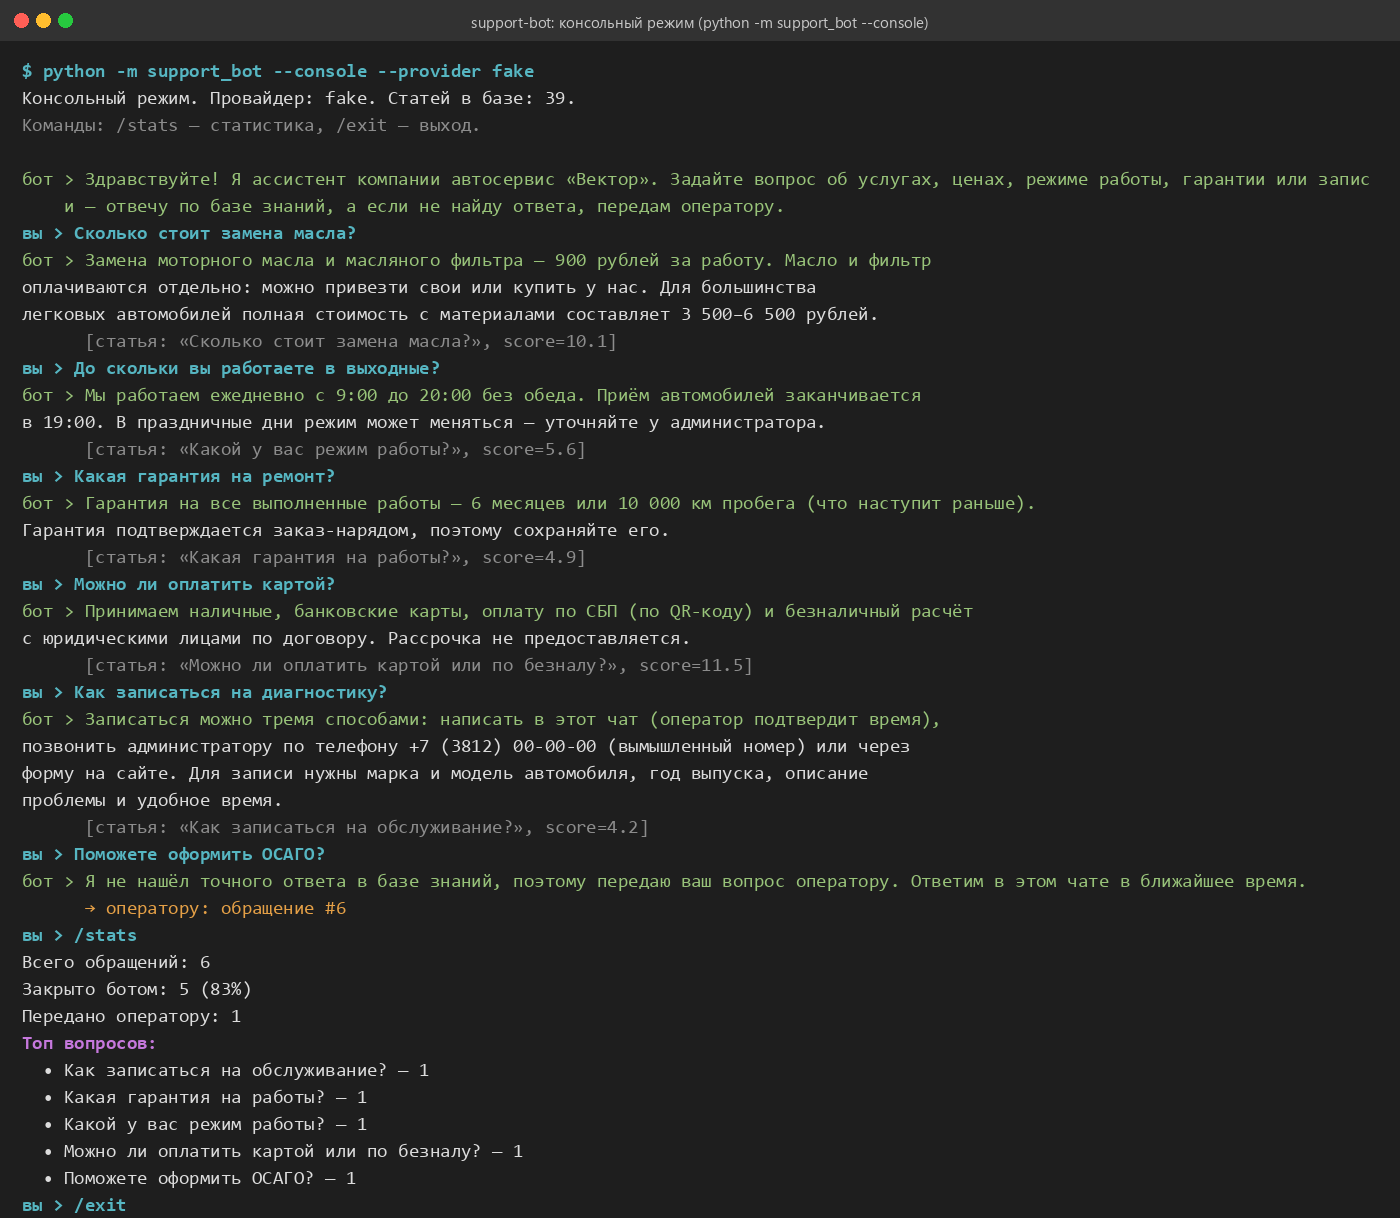
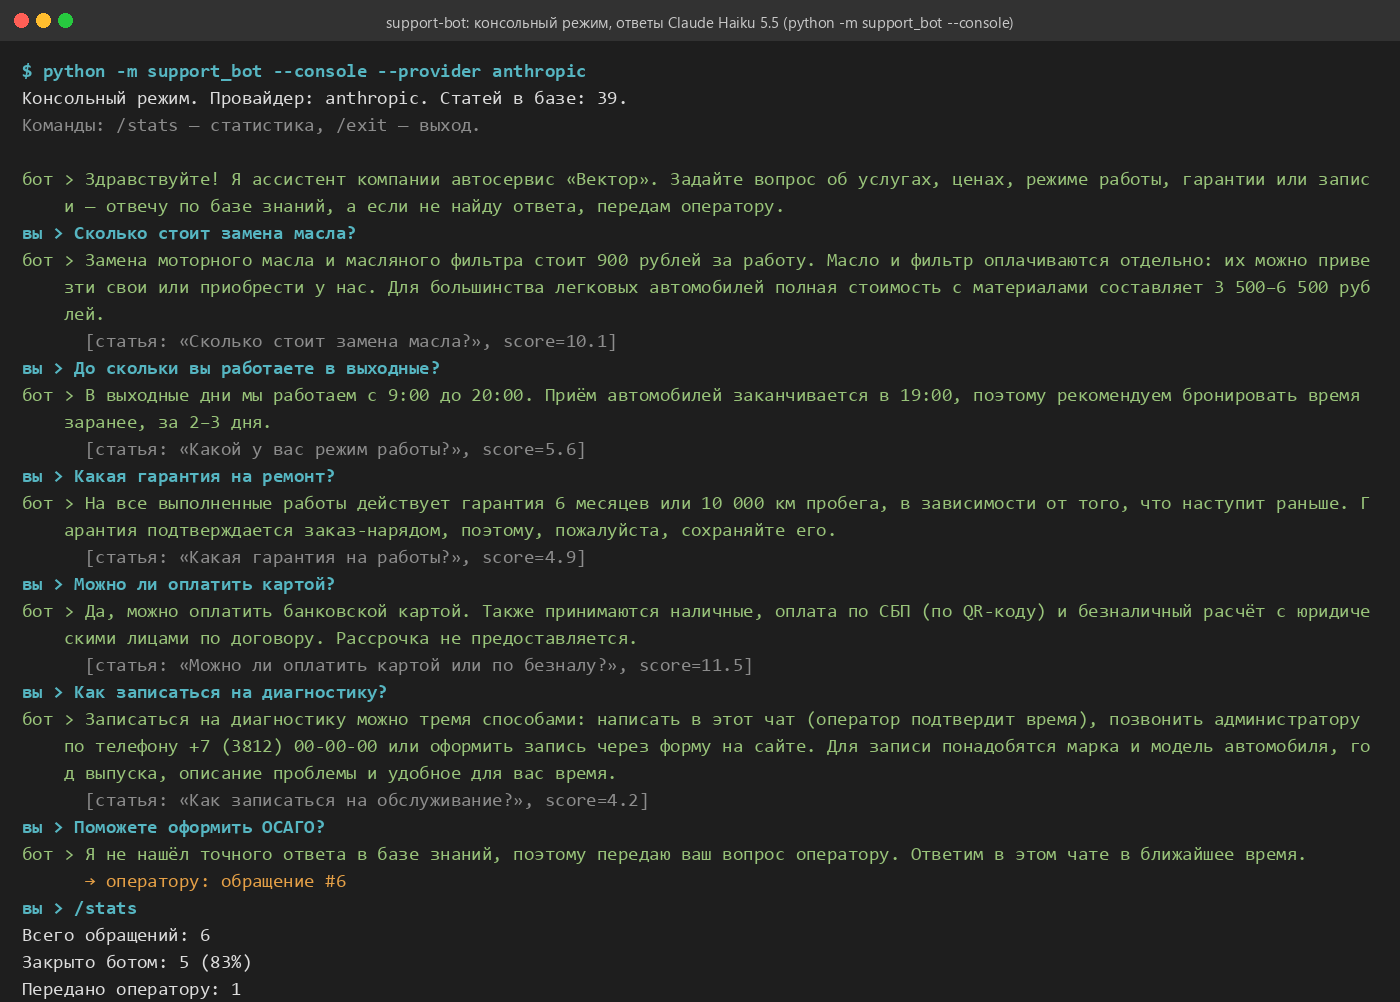
docs: live Claude Haiku 5.5 console screenshot and README note

diff --git a/README.md b/README.md
@@ -9,6 +9,9 @@
 
 ![Консольный режим](docs/console.png)
 
+На скриншоте — консольный режим с ответами Claude Haiku 5.5: пять вопросов закрыты по базе,
+шестой («ОСАГО») передан оператору. Без ключа API те же вопросы отрабатывает заглушка.
+
 ## Задача
 
 Малому бизнесу приходят однотипные вопросы в мессенджер: цены, часы работы, адрес,
